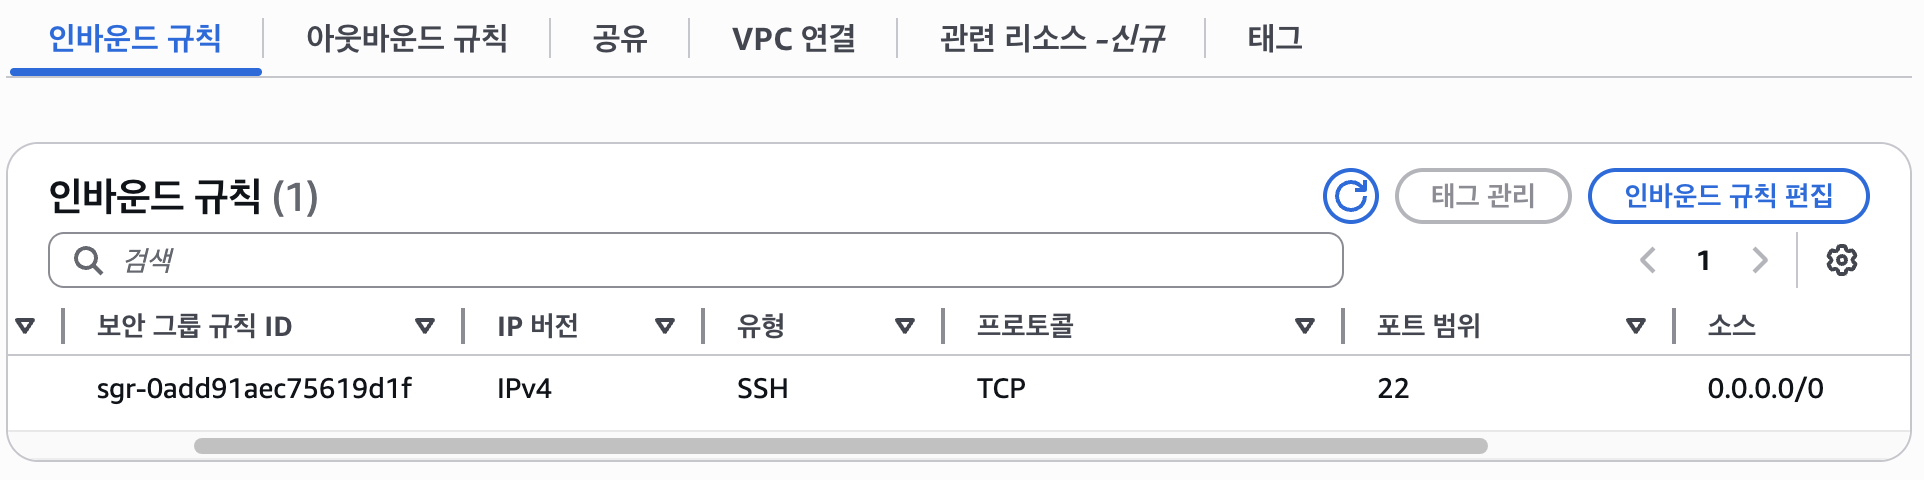
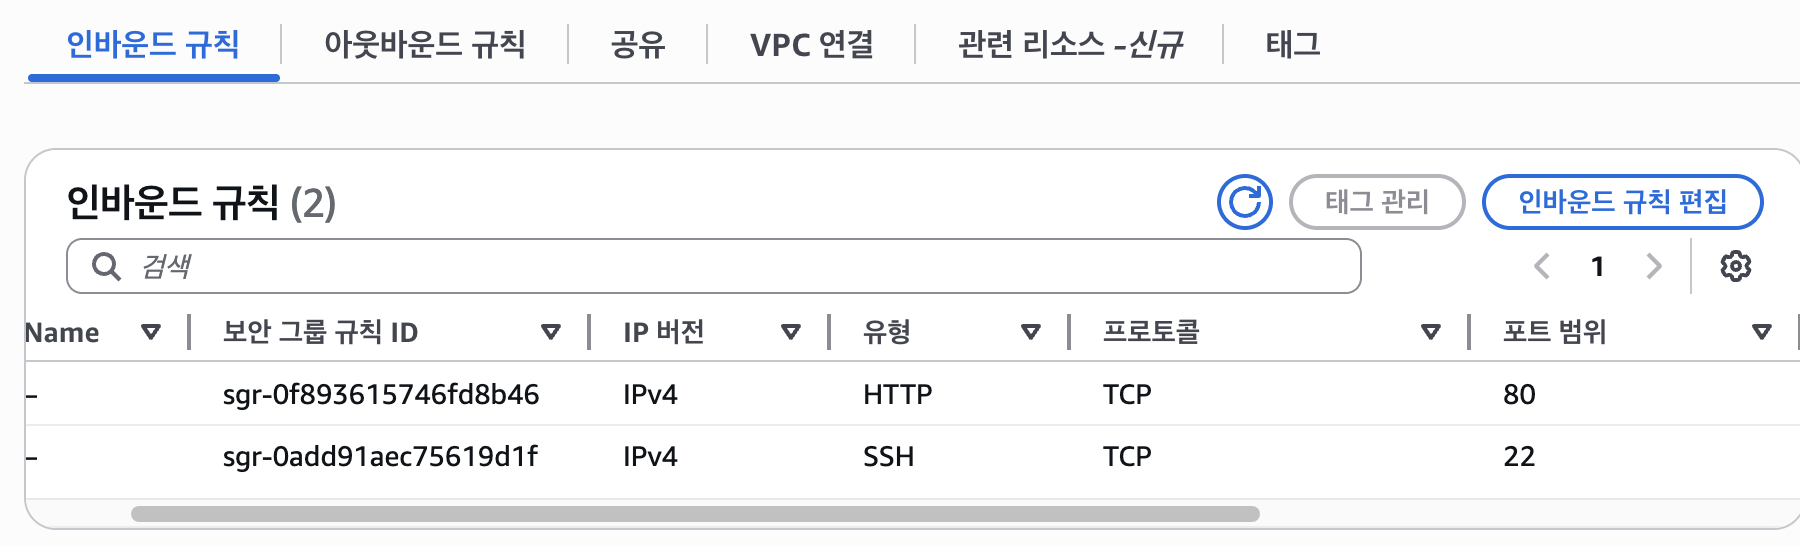
docs:nginx설정파일 저장

diff --git a/sprint9-submit/infra/ec2/ecosystem.config.js b/sprint9-submit/infra/ec2/ecosystem.config.js
@@ -1,0 +1,11 @@
+odifiedexports = {
+  apps: [
+    {
+      name: 'pandamarket',
+      script: 'dist/server.js',
+      env: {
+        NODE_ENV: 'production',
+      },
+    },
+  ],
+};